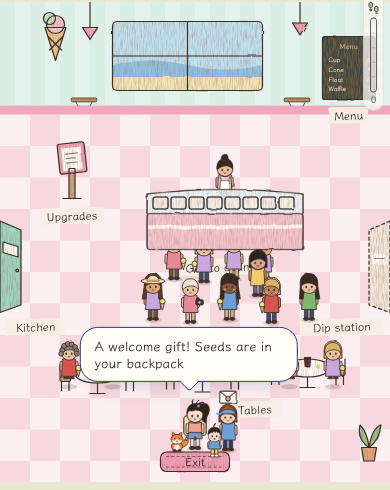
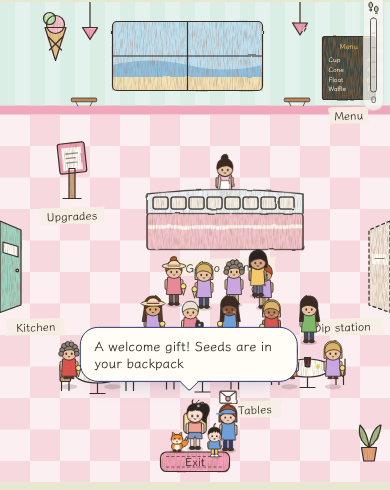
Coach crowd: the shop queues stand clear of the counter
Claude-Session: https://claude.ai/code/session_017gYbhpw6TbdTF5ufLgYzyp

Changed region(s): [[0.3385, 0.4898, 0.7385, 0.6735], [0.7692, 0.551, 0.8308, 0.7041]]

diff --git a/maple-village/src/art/coachcrowd.js b/maple-village/src/art/coachcrowd.js
@@ -20,13 +20,14 @@ function look(seed, extra){
   if (r(11) < .2) l.hat = "sunhat";
   return l;
 }
-// where they go, in scene units: [x, y, sit?, faces (1 right, -1 left)]
+// where they go, in scene units: [x, y, sit?, faces (1 right, -1 left)]; the shop queues start a step back from the
+// counter (Mel: "Some people are under the counter in the shop")
 export const CROWD_AT = {
   wineshop: [[70, 432], [120, 448], [178, 430], [228, 456], [302, 448], [352, 432], [406, 452], [456, 434], [92, 548], [190, 540], [338, 540], [450, 548]].map(([x, y], i) => [x, y, false, i % 2 ? -1 : 1]),
   terrace: [...[329, 373, 417, 461, 505, 549].map(y => [214, y + 12, true, 1]), ...[329, 373, 417, 461, 505, 549].map(y => [306, y + 12, true, -1])],
   vineyard: [[350, 262, false, 1], [392, 270, false, -1], [434, 258, false, -1], [312, 280, false, 1], [462, 284, false, -1], [372, 296, false, 1]],   // waiting by the wine shop's door (no terrace yet)
-  scoopshop: [[232, 370, false, 1], [272, 374, false, -1], [312, 370, false, 1], [352, 374, false, -1], [204, 424, false, 1], [254, 428, false, 1], [306, 424, false, -1], [362, 428, false, -1], [412, 424, false, -1], [92, 506, true, 1], [150, 506, true, -1], [386, 506, true, 1], [444, 506, true, -1]],
-  cocoa: [[238, 372, false, 1], [278, 376, false, -1], [318, 372, false, 1], [358, 376, false, -1], [214, 426, false, 1], [266, 430, false, 1], [318, 426, false, -1], [372, 430, false, -1], [92, 506, true, 1], [150, 506, true, -1], [386, 506, true, 1], [444, 506, true, -1]],
+  scoopshop: [[232, 404, false, 1], [272, 408, false, -1], [312, 404, false, 1], [352, 408, false, -1], [204, 454, false, 1], [254, 458, false, 1], [306, 454, false, -1], [362, 458, false, -1], [412, 454, false, -1], [92, 506, true, 1], [150, 506, true, -1], [386, 506, true, 1], [444, 506, true, -1]],
+  cocoa: [[238, 404, false, 1], [278, 408, false, -1], [318, 404, false, 1], [358, 408, false, -1], [214, 454, false, 1], [266, 458, false, 1], [318, 454, false, -1], [372, 458, false, -1], [92, 506, true, 1], [150, 506, true, -1], [386, 506, true, 1], [444, 506, true, -1]],
   bay: [[382, 290, false, -1], [362, 302, false, -1], [342, 314, false, -1], [322, 326, false, -1], [302, 338, false, -1], [284, 352, false, -1], [138, 338, true, 1], [226, 360, true, -1], [186, 414, true, 1], [148, 400, true, 1]]
 };
 // which rooms fill, in order, for each place the coach goes

diff --git a/maple-village/HANDOFF.md b/maple-village/HANDOFF.md
@@ -2988,3 +2988,4 @@ Mel: villagers' story chapters read as broken-up speech without context; thank-y
 - art/coachcrowd.js draws the coach's visitors: the wine shop fills first (12), then the terrace (12 seated), or 6 waiting by the door with no terrace; at the bay, the Scoop Shack (13), the Cocoa Room (12, if owned) and a queue and deck outside (10). In over 12 minutes, out over the last 15. The coach parks by the vineyard stall. happen.js `coachToday`; core.js `coachCrowdNow`, drawScene and hapNow redraws. Pictures: screens-bottom-row/round317-coach-*.png.
 - Tomo: `.rideby` arms still on the handlebars (npcs.css); setScene removes the ride so it never shows indoors.
 - Cruise ship: planned, not built (Mel asked to wait).
+- Follow-up (Mel: "Some people are under the counter in the shop"): the Scoop Shack and Cocoa Room queues now start a step back (y 404 and 454), clear of the counter.
